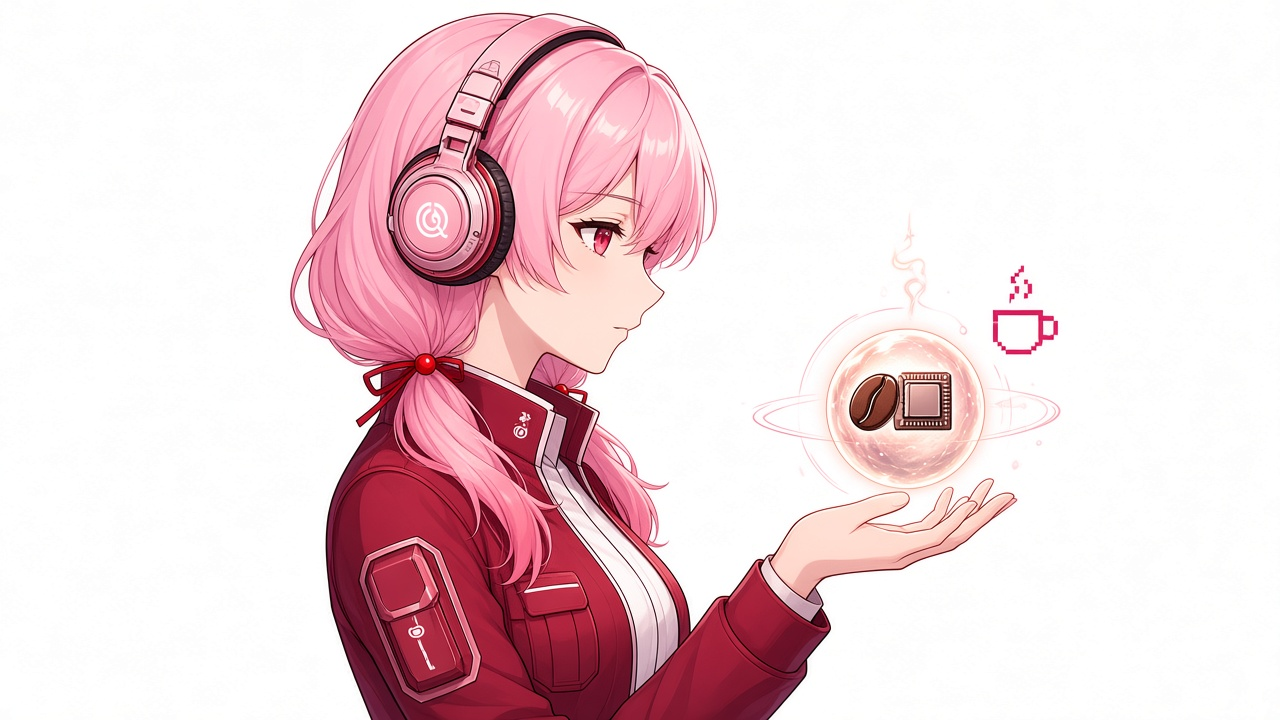
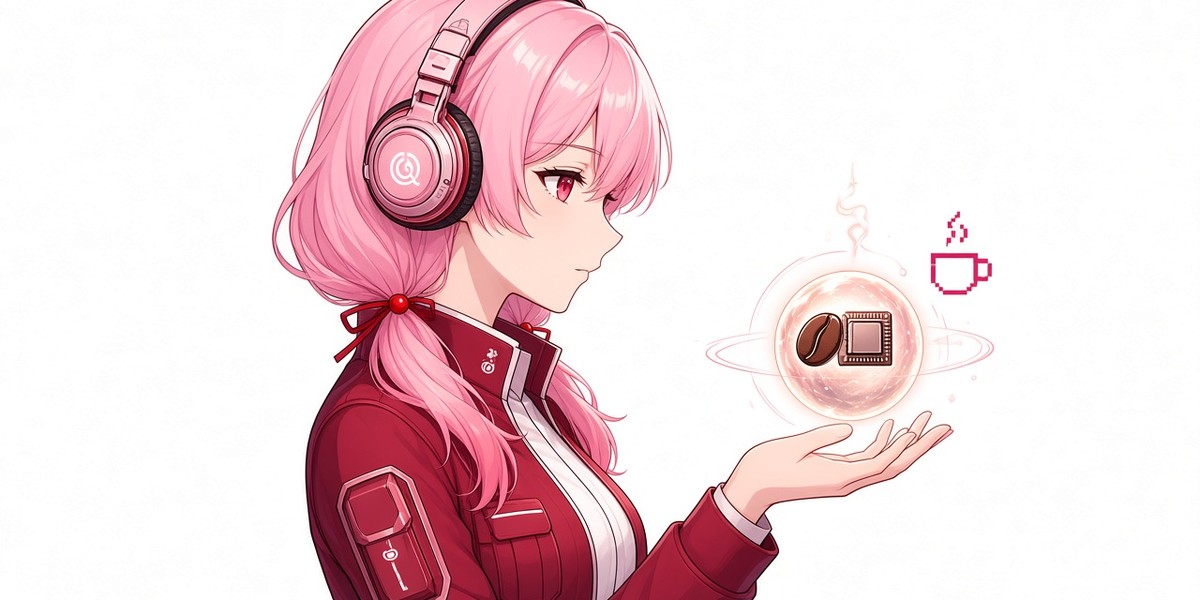
v0.1.3: remove Desktop internal localStorage read, drop provides_middleware, 2:1 cover (#1)
* Fix catalog rule 8: remove reading of Desktop app internal localStorage

- Remove readDesktopProvider() function that read hermes.desktop.composer.provider* keys
- Provider label now relies solely on backend data from snap.active.provider
- Backend data comes from coffee/monitor.py note_active() which properly tracks the active model and provider
- Bump version to 0.1.3
- Add CHANGELOG.md documenting all releases

This change ensures the plugin stays within the SDK surface and does not probe the app's internal stores, complying with Hermes plugin catalog rule 8.

* Remove unrecognized provides_middleware field from manifest

The provides_middleware field is not part of the plugin manifest schema
(checked hermes_cli/plugins_manifest.py _KNOWN_MANIFEST_FIELDS). Middleware
registration is done correctly in code via ctx.register_middleware() in
coffee/hooks.py, not through manifest declaration.

This fixes the Hermes v0.23.0 warning:
'Plugin coffee-vram: unknown manifest field(s) ignored: provides_middleware'

* Resize cover image to 2:1 ratio (1200x600) for catalog requirements

- Resized from 1280x720 (16:9) to 1200x600 (2:1)
- Applied center crop vertically (cropped 40px from top and bottom)
- Used high-quality Lanczos resampling
- Optimized JPEG at quality 90
- File size: 112 KB (well under 500KB limit)
- All main elements (character, headphones, coffee elements) preserved

---------

diff --git a/desktop/plugin.js b/desktop/plugin.js
@@ -170,33 +170,6 @@ const PROVIDER_LABELS = {
   antigravity: 'Antigravity'
 }
 
-function readDesktopProvider() {
-  try {
-    const connectionId = host.state.connectionId?.get?.() || ''
-    const profile = host.state.profile?.get?.() || 'default'
-    const keys = []
-    if (connectionId) {
-      keys.push(
-        `hermes.desktop.composer.provider.registry.${encodeURIComponent(connectionId)}.${encodeURIComponent(profile)}`
-      )
-    }
-    keys.push('hermes.desktop.composer.provider')
-    for (const key of keys) {
-      const value = localStorage.getItem(key)
-      if (value && value.trim()) return value.trim()
-    }
-    for (let i = 0; i < localStorage.length; i++) {
-      const key = localStorage.key(i)
-      if (!key || !key.startsWith('hermes.desktop.composer.provider')) continue
-      const value = localStorage.getItem(key)
-      if (value && value.trim()) return value.trim()
-    }
-  } catch {
-    /* ignore storage access errors */
-  }
-  return ''
-}
-
 function formatProvider(provider, local, t) {
   if (provider) {
     const key = String(provider).trim()
@@ -220,18 +193,17 @@ function findLoadedMatch(snap, modelName) {
   return snap.loaded.find(model => modelsMatch(model.name, modelName)) || null
 }
 
-/** Composer picker wins for display; enrich with backend / localStorage provider. */
+/** Composer picker wins for display; enrich with backend provider. */
 function resolveActive(snap, desktopModel) {
   if (snap && snap.show_active_model === false) return null
   const picked = String(desktopModel || '').trim()
   const backend = snap && snap.active && snap.active.model ? snap.active : null
-  const desktopProvider = readDesktopProvider()
   if (picked) {
     const same = backend && modelsMatch(backend.model, picked)
     const local = same ? backend.local : (findLoadedMatch(snap, picked) ? true : null)
     return {
       model: picked,
-      provider: (same && backend.provider) || desktopProvider || null,
+      provider: (same && backend.provider) || null,
       local,
       source: 'desktop'
     }

diff --git a/CHANGELOG.md b/CHANGELOG.md
@@ -1,0 +1,52 @@
+# Changelog
+
+All notable changes to Coffee VRAM Guard will be documented in this file.
+
+The format is based on [Keep a Changelog](https://keepachangelog.com/en/1.0.0/),
+and this project adheres to [Semantic Versioning](https://semver.org/spec/v2.0.0.html).
+
+## [0.1.3] - 2026-11-10
+
+### Fixed
+- **Catalog compliance**: Removed reading of Desktop app's internal localStorage (`hermes.desktop.composer.provider*` keys) to comply with Hermes plugin catalog rule 8. The provider label in the Desktop panel now relies solely on backend data from `snap.active.provider` (provided by `coffee/monitor.py` via `note_active()`).
+
+### Changed
+- Desktop plugin no longer probes `localStorage` for app-internal composer state
+- Provider display now uses only SDK-provided state and backend monitoring data
+
+## [0.1.2] - 2026-11-10
+
+### Added
+- Desktop chip and panel now show the active Hermes model (cloud or local)
+- Provider label display (Ollama, Anthropic, OpenAI, etc.)
+- Conversation context usage and tokens/second statistics
+- Performance pet visualization showing GPU utilization with weather effects
+
+### Changed
+- Enhanced status chip with model name, provider, and performance metrics
+- Improved panel layout with active model section separate from loaded models list
+
+## [0.1.1] - 2026-11-09
+
+### Changed
+- Documentation improvements
+- Internal refactoring for better code organization
+
+## [0.1.0] - 2026-11-08
+
+### Added
+- Initial release of Coffee VRAM Guard
+- VRAM fit-check before local Ollama calls
+- Call queue management with configurable timeout
+- Keep-warm functionality for loaded models
+- Idle model eviction with LRU strategy
+- Desktop status bar chip with GPU memory percentage
+- Desktop panel with memory gauges, loaded models, and queue status
+- CLI commands: `hermes coffee-vram status`, `hermes coffee-vram evict`
+- Chat commands: `/vram`, `/vram queue`, `/vram models`, `/vram settings`, `/vram evict`
+- Agent tool: `vram_status` for programmatic memory checks
+- Support for NVIDIA GPUs with NVML telemetry
+- Configurable warning and hold thresholds
+- Pinned models that are never unloaded
+- Advanced mode with history and event log
+- Host system stats (CPU, RAM, network, GPU temperature)
